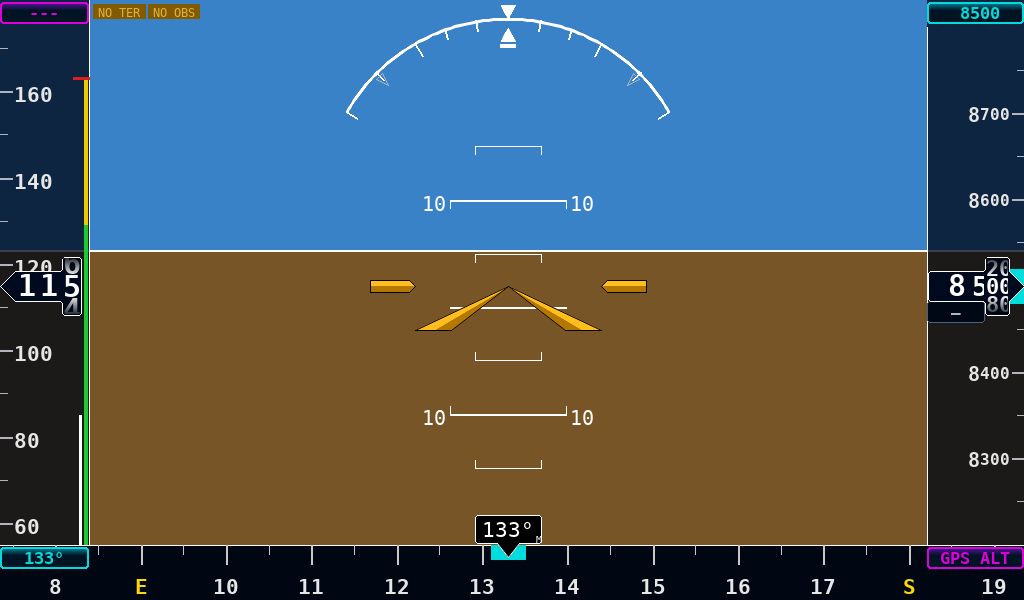
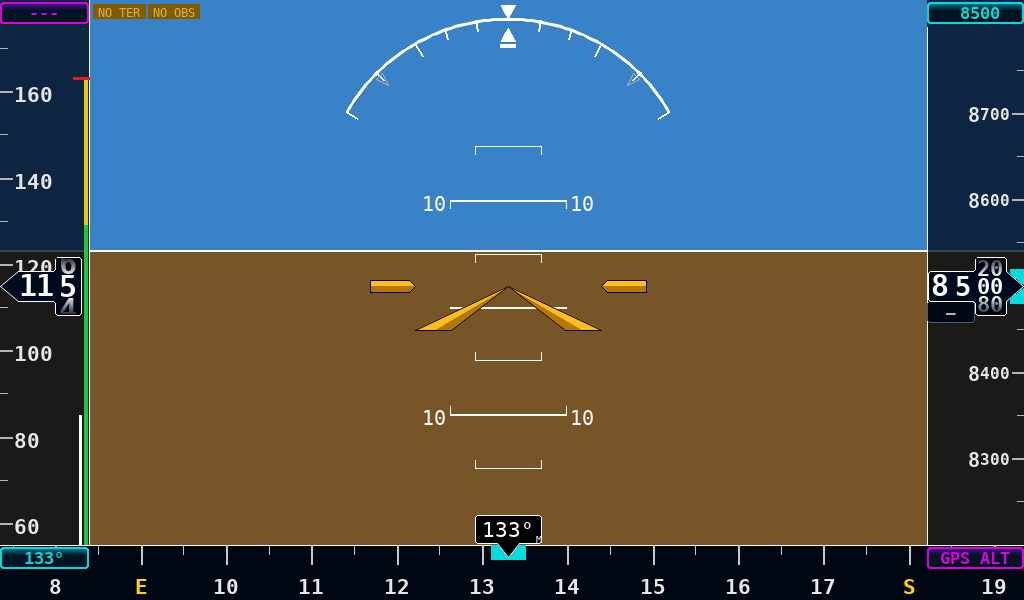
Fix Pi4 VR drum layout: distribute extra width across all sections
Speed VR box: pointer 15→18, inner 32→37, drum 19→26.
The units drum section is now 26px wide (was 17) giving the scaled
24pt font proper room. Inner section (hundreds+tens) gets 35px.

Altitude VR box: inner 42→47, drum 24→31, pointer 15→18.
The twenties drum section is now 29px render width (was 22), fixing
the clipping of 20-ft labels. Inner section digits shifted left to
use the full 47px width. Hundreds digit no longer crammed right.

Arc thickness reduced from 3 to 2px on both versions.

https://claude.ai/code/session_018sBLgJ7ZVU7xYH4qxt6x56

Changed region(s): [[0.9062, 0.42, 1.0, 0.54], [0.0, 0.42, 0.0938, 0.54]]

diff --git a/pi4/pfd.py b/pi4/pfd.py
@@ -931,23 +931,26 @@ def draw_speed_tape(surf, speed, gs_bug=None,
         surf.set_clip(None)
 
     # Speed readout box — stepped Veeder-Root style.
-    # Original 640×480 layout preserved; extra tape width extends the box rightward.
+    # Extra tape width distributed across all sections:
+    #   pointer 15→18, inner 32→37, drum 19→26 = total 66→81
     _sp = SPD_X
-    _extra = SPD_W - 74  # extra pixels beyond base 74px tape width
-    pts_s = _chamfer([(_sp,           TAPE_MID),
-                      (_sp + 15,      TAPE_MID - 15), (_sp + 47 + _extra, TAPE_MID - 15),
-                      (_sp + 47 + _extra, TAPE_MID - 29), (_sp + 66 + _extra, TAPE_MID - 29),
-                      (_sp + 66 + _extra, TAPE_MID + 29),
-                      (_sp + 47 + _extra, TAPE_MID + 29), (_sp + 47 + _extra, TAPE_MID + 15),
-                      (_sp + 15,      TAPE_MID + 15)], {2, 3, 4, 5, 6, 7})
+    _ptr_r  = 18   # pointer tip right edge
+    _inn_r  = 55   # inner section right edge (ptr + inner = 18 + 37)
+    _box_r  = 81   # full box right edge (ptr + inner + drum = 18 + 37 + 26)
+    pts_s = _chamfer([(_sp,          TAPE_MID),
+                      (_sp + _ptr_r, TAPE_MID - 15), (_sp + _inn_r, TAPE_MID - 15),
+                      (_sp + _inn_r, TAPE_MID - 29), (_sp + _box_r, TAPE_MID - 29),
+                      (_sp + _box_r, TAPE_MID + 29),
+                      (_sp + _inn_r, TAPE_MID + 29), (_sp + _inn_r, TAPE_MID + 15),
+                      (_sp + _ptr_r, TAPE_MID + 15)], {2, 3, 4, 5, 6, 7})
     pygame.gfxdraw.filled_polygon(surf, pts_s, (0, 10, 30))
     pygame.gfxdraw.aapolygon(surf, pts_s, WHITE)
     spd_col = RED if speed > vne else (YELLOW if speed > vno else WHITE)
-    # Inner: hundreds + tens at 24pt; drum: units digit
-    _rolling_drum(surf, _sp + 16, TAPE_MID - 14, 30 + _extra, 28, speed, 2, spd_col, 24, power_offset=1)
-    _rolling_drum(surf, _sp + 48 + _extra, TAPE_MID - 28, 17, 56, speed, 1, spd_col, 24,
+    # Inner: hundreds + tens (37px wide); drum: units digit (26px wide)
+    _rolling_drum(surf, _sp + _ptr_r + 1, TAPE_MID - 14, 35, 28, speed, 2, spd_col, 24, power_offset=1)
+    _rolling_drum(surf, _sp + _inn_r + 1, TAPE_MID - 28, 24, 56, speed, 1, spd_col, 24,
                   show_adjacent=True, adj_slot_h=23)
-    _drum_shade(surf, _sp + 48 + _extra, TAPE_MID - 28, 17, 56)
+    _drum_shade(surf, _sp + _inn_r + 1, TAPE_MID - 28, 24, 56)
 
     # GS bug button — top strip of speed tape; color matches bug triangle
     gs_str = f"{round(gs_bug):3d}" if gs_bug is not None else "---"
@@ -1027,23 +1030,27 @@ def draw_alt_tape(surf, alt, vspeed, baro_hpa, baro_src, alt_bug=None, baro_ok=T
         surf.set_clip(None)
 
     # Altitude readout box — stepped Veeder-Root style.
-    # Original 640×480 layout preserved; extra tape width extends the box leftward.
+    # Extra tape width distributed across all sections:
+    #   inner 42→47, drum 24→31, pointer 15→18 = total 81→96
     R = ALT_X + ALT_W
-    _extra_a = ALT_W - 82  # extra pixels beyond base 82px tape width
-    pts_a = _chamfer([(R,      TAPE_MID),
-                      (R - 15, TAPE_MID - 15), (R - 15, TAPE_MID - 29),
-                      (R - 39, TAPE_MID - 29), (R - 39, TAPE_MID - 15),
-                      (R - 81 - _extra_a, TAPE_MID - 15),
-                      (R - 81 - _extra_a, TAPE_MID + 15),
-                      (R - 39, TAPE_MID + 15), (R - 39, TAPE_MID + 29),
-                      (R - 15, TAPE_MID + 29), (R - 15, TAPE_MID + 15)], {2, 3, 4, 5, 6, 7, 8, 9})
+    _ptr_w  = 18   # pointer section width
+    _drm_w  = 31   # drum (twenties) section width
+    _inn_w  = 47   # inner (hundreds thru ten-thousands) section width
+    _box_w  = _inn_w + _drm_w + _ptr_w   # 96 total
+    _drm_l  = _ptr_w + _drm_w            # 49 — drum left edge from R
+    pts_a = _chamfer([(R,              TAPE_MID),
+                      (R - _ptr_w,     TAPE_MID - 15), (R - _ptr_w, TAPE_MID - 29),
+                      (R - _drm_l,     TAPE_MID - 29), (R - _drm_l, TAPE_MID - 15),
+                      (R - _box_w,     TAPE_MID - 15),
+                      (R - _box_w,     TAPE_MID + 15),
+                      (R - _drm_l,     TAPE_MID + 15), (R - _drm_l, TAPE_MID + 29),
+                      (R - _ptr_w,     TAPE_MID + 29), (R - _ptr_w, TAPE_MID + 15)], {2, 3, 4, 5, 6, 7, 8, 9})
     pygame.gfxdraw.filled_polygon(surf, pts_a, (0, 10, 30))
 
     # VSI readout — drawn BEFORE the outline so the 2px white line frames shared edges
-    _R39  = R - 39
     _nx   = ALT_X
     _ny   = TAPE_MID + 15
-    _nw   = _R39 - ALT_X
+    _nw   = R - _drm_l - ALT_X
     _nh   = 22
     if abs(vspeed) > 30:
         _varr = "▲" if vspeed > 0 else "▼"
@@ -1061,20 +1068,26 @@ def draw_alt_tape(surf, alt, vspeed, baro_hpa, baro_src, alt_bug=None, baro_ok=T
     carry_frac = max(0.0, (alt % 100) / 20 - 4.0)
     alt_inner  = float(alt // 100) + carry_frac
     inner_int  = int(alt_inner)
-    if inner_int < 10:
-        _rolling_drum(surf, R - 80 - _extra_a, TAPE_MID - 14, 41 + _extra_a, 28, alt_inner, 1, WHITE, 24)
-    elif inner_int < 100:
-        _rolling_drum(surf, R - 66 - _extra_a, TAPE_MID - 14, 14 + _extra_a, 28, alt_inner, 1, WHITE, 24,
+    # Inner digits: positioned from left edge of box; hundreds digit shifted left
+    _inn_x = R - _box_w + 1            # left edge of inner section
+    if inner_int < 10:                  # alt < 1,000 ft — hundreds only
+        _rolling_drum(surf, _inn_x, TAPE_MID - 14, _inn_w, 28, alt_inner, 1, WHITE, 24)
+    elif inner_int < 100:               # 1,000–9,999 ft
+        _half = _inn_w // 2
+        _rolling_drum(surf, _inn_x, TAPE_MID - 14, _half, 28, alt_inner, 1, WHITE, 24,
                       power_offset=1)
-        _rolling_drum(surf, R - 52, TAPE_MID - 14, 12, 28, alt_inner, 1, WHITE, 22)
-    else:
-        _rolling_drum(surf, R - 80 - _extra_a, TAPE_MID - 14, 28 + _extra_a, 28, alt_inner, 2, WHITE, 22,
+        _rolling_drum(surf, _inn_x + _half, TAPE_MID - 14, _half, 28, alt_inner, 1, WHITE, 22)
+    else:                               # alt >= 10,000 ft
+        _tw = _inn_w * 2 // 3
+        _rolling_drum(surf, _inn_x, TAPE_MID - 14, _tw, 28, alt_inner, 2, WHITE, 22,
                       suppress_leading=True, power_offset=1)
-        _rolling_drum(surf, R - 52, TAPE_MID - 14, 12, 28, alt_inner, 1, WHITE, 22)
-    # Drum: 20-ft labels
-    _rolling_drum_alt20(surf, R - 38, TAPE_MID - 28, 22, 56, alt, WHITE, 18,
+        _rolling_drum(surf, _inn_x + _tw, TAPE_MID - 14, _inn_w - _tw, 28, alt_inner, 1, WHITE, 22)
+    # Drum: 20-ft labels — expanded from 22 to 29px for scaled fonts
+    _drm_x = R - _drm_l + 1
+    _drm_render_w = _drm_w - 2
+    _rolling_drum_alt20(surf, _drm_x, TAPE_MID - 28, _drm_render_w, 56, alt, WHITE, 18,
                         show_adjacent=True, adj_slot_h=18)
-    _drum_shade(surf, R - 38, TAPE_MID - 28, 22, 56)
+    _drum_shade(surf, _drm_x, TAPE_MID - 28, _drm_render_w, 56)
 
 
 # ── Heading tape ──────────────────────────────────────────────────────────────
